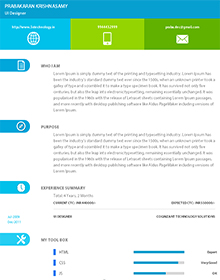
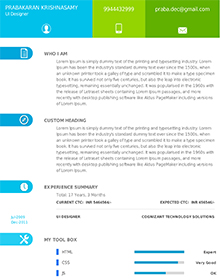
#186

diff --git a/assets/css/sss_resume.css b/assets/css/sss_resume.css
@@ -147,11 +147,11 @@ float: right;}
 	font-size: .9em;	text-decoration: none; color: #232323;
 	
 }
-.rsum_tp_active{padding:11px 0 0px 57px; height: 19px; display:block; background: url(../img/sprites.png) -404px -909px no-repeat; margin: 30px 0 0 0; text-align: left;font-family: segoeuib;color: #e78130; font-size: .9em;}
-.rsum_tp{padding:8px 0 0px 57px; height: 19px; display:block; background: url(../img/sprites.png) -403px -849px no-repeat; margin: 25px 0 0 0; text-align: left;color: #232323; font-size: .9em; text-decoration:none;}
-.rsum_tp1{padding:8px 0 2px 57px; height: 19px; display:block; background: url(../img/sprites.png) -403px -881px no-repeat; margin: 25px 0 0 0; text-align: left;color: #232323; font-size: .9em; text-decoration:none;}
+.rsum_tp_active{padding:11px 0 0px 57px; height: 19px; font-weight:bold; display:block; background: url(../img/sprites.png) -404px -909px no-repeat; margin: 30px 0 0 0; text-align: left;font-family: segoeuib;color: #e78130; font-size: .9em;}
+.rsum_tp{padding:8px 0 0px 57px; height: 19px; font-weight:bold; display:block; background: url(../img/sprites.png) -403px -849px no-repeat; margin: 25px 0 0 0; text-align: left;color: #232323; font-size: .9em; text-decoration:none;}
+.rsum_tp1{padding:8px 0 2px 57px; height: 19px; font-weight:bold; display:block; background: url(../img/sprites.png) -403px -881px no-repeat; margin: 25px 0 0 0; text-align: left;color: #232323; font-size: .9em; text-decoration:none;}
 
-.rsum_tp_rs{padding:8px 0 0px 57px; height: 19px; display:block; background: url(../img/sprites.png) -403px -818px no-repeat; margin: 25px 0 0 0; text-align: left;color: #232323; font-size: .9em; text-decoration:none; cursor:pointer;}
+.rsum_tp_rs{padding:8px 0 0px 57px; height: 19px; font-weight:bold; display:block; background: url(../img/sprites.png) -403px -818px no-repeat; margin: 25px 0 0 0; text-align: left;color: #232323; font-size: .9em; text-decoration:none; cursor:pointer;}
 
 .rns_b{
 	font-family: segoeuib;
@@ -251,7 +251,8 @@ input, select{
 }
 
 .form_sections{ margin-left: 20px; padding-bottom: 50px; }
-
+.star_mant{position:absolute; margin:-2px 0px 0 -13px; color:red;}
+.star_mant2{position:absolute; margin:-2px 0px 0 -9px; color:red;}
 .clickr, .clickr_final{
 	padding: 8px 30px 10px 20px; display: inline-block;
 	cursor: pointer;
@@ -273,14 +274,14 @@ input, select{
 
 .clickr_final{
 	position: absolute;	display: block;
-	bottom: 50px; right: 160px;
+	bottom: 50px; right:58px;
 	background: #e78130 ;
 }
 .clickr_preview {
 display: block;
 position: relative;
 float: right;
-margin: -86px 58px 0 0;
+margin: -86px 225px 0 0;
 padding: 9px 20px;
 background-color: #e78130;
 color: #fff;
@@ -393,9 +394,9 @@ height: 2px!important;
 
 }
 
-.change_arrow_lft{background:transparent url(../img/sprites.png) -298px -648px no-repeat; display:block; padding:59px 15px 22px 37px; width:13px;  float:left; margin: 120px 0px 0 29px;}
+.change_arrow_lft{background:transparent url(../img/sprites.png) -298px -648px no-repeat; display:block; padding:59px 15px 22px 37px; width:13px;  float:left; margin: 120px 0px 0 29px; visibility:hidden;}
 
-.change_arrow_rit{background:transparent url(../img/sprites.png) -360px -648px no-repeat; display:block; padding:59px 15px 22px 50px; width:13px;  float:right; margin: 120px 8px 0 0px;}
+.change_arrow_rit{background:transparent url(../img/sprites.png) -360px -648px no-repeat; display:block; padding:59px 15px 22px 50px; width:13px;  float:right; margin: 120px 8px 0 0px; visibility:hidden;}
 
 .t_list_bg{
 	width: 220px; height: 297px; float: left;

diff --git a/assets/css/sss_header.css b/assets/css/sss_header.css
@@ -20,7 +20,7 @@ table {	border-collapse: collapse;	border-spacing: 0;}
 body{ font-family: 'segoeui', sans-serif;}
 .clearboth{clear:both;}
 .floatRight{float:right;}
-.flaotLeft{flaot:left;}
+.flaotLeft{float:left;}
 hr{display: none;}
 h1{font-size: 2.2em;}
 h2{font-size: 1.8em;}
@@ -57,7 +57,7 @@ h3{font-size: 1.4em;}
 	border: 0; border-top: 1px solid #1c5870;
 }
 .ezcv_logo{	
-	width: 120; height: 120px; display: block; 	
+	width: 120px; height: 120px; display: block; 	
 	margin:20px 20px 0 0; 
 	color:#ffffff;	text-decoration: none;	 text-indent: -999em;
 }
@@ -110,6 +110,6 @@ h3{font-size: 1.4em;}
 
 .custom-tooltip-styling
 {
-	color:#000; padding:15px; border:solid 1px #d2d2d2; background:#fff!important; font-weight:bold; margin:-30px 0 0 0!important;
-	font-size:15px; position:absolute;
+	color:#000; padding:10px!important; border:solid 1px #d2d2d2; background:#fff!important; font-weight:bold; margin:-30px 0 0 0!important;
+	font-size:13px!important; position:absolute; width:270px; text-align:center; line-height:18px;
 }

diff --git a/assets/css/sss_home.css b/assets/css/sss_home.css
@@ -170,16 +170,16 @@ footer p{
 }
 
 /************************** Large desktop **************************/
-@media (min-width: 1200px) { ... }
+/*@media (min-width: 1200px) { ... }*/
  
 /************************** Portrait tablet to landscape and 1024 DESKTOP **************************/
-@media (min-width: 768px) and (max-width: 979px) { ... }
+/*@media (min-width: 768px) and (max-width: 979px) { ... }*/
  
 /************************** Landscape phone to portrait tablet **************************/
-@media (max-width: 767px) { ... }
+/*@media (max-width: 767px) { ... }*/
  
 /************************** Landscape phones and down **************************/
-@media (max-width: 480px) { ... }
+/*@media (max-width: 480px) { ... }*/
 
 
 .slide_top_1 {	background: #93c13d !important;}

diff --git a/assets/css/colorbox.css b/assets/css/colorbox.css
@@ -33,7 +33,7 @@
         .cboxIframe{background:#fff;}
         #cboxError{padding:50px; border:1px solid #ccc;}
         #cboxLoadedContent{margin-bottom:28px;}
-        #cboxTitle{position:absolute; top:4px; left:0; text-align:center; width:100%; color:#000;}
+        #cboxTitle{position:absolute; top:0px; left:0; text-align:center; width:793px; color:#fff; background:#e78130; border-radius:5px 5px 0 0; line-height:22px;}
         #cboxCurrent{position:absolute; bottom:4px; left:58px; color:#949494;}
         #cboxLoadingOverlay{background:url(../img/colorbox/loading_background.png) no-repeat center center;}
         #cboxLoadingGraphic{background:url(../img/colorbox/loading.gif) no-repeat center center;}

diff --git a/assets/css/T/T3.php b/assets/css/T/T3.php
@@ -220,6 +220,7 @@ body p,b,h1,h2,h3,span{font-family:Arial, Helvetica, sans-serif; color:#3f3f3f;}
 .wrapper .right .contact{width:80%; margin:10px 0px 0px 30px; float:left;}
 .wrapper .right .contact h1{width:100%; border-bottom:1px solid #3f3f3f; color:#24b8e9; font-size: 15px; line-height:22px; padding:16px 0 16px 41px; text-transform:uppercase; background:url(<?=$baseurl?>assets/img/Templates/t9_t10_contact.png) no-repeat 0% 50%;}
 .wrapper .right .contact .phone{font-size: 14px; padding:22px 0 10px 38px; background:url(<?=$baseurl?>assets/img/Templates/t9_t10_mobile.jpg) no-repeat 0% 69%;}
+.wrapper .right .contact .mail{display: block; padding:2px 0 0px 38px; font-size: 14px;line-height: 22px; background:url(<?=$baseurl?>assets/img/Templates/t9_t10_mail.jpg) no-repeat 0px 6px;}
 
 .wrapper .right .contact .address{font-size: 14px; padding:10px 0 0px 38px; background:url(<?=$baseurl?>assets/img/Templates/t9_t10_address.jpg) no-repeat 0% 22%; line-height:18px;}
 
@@ -256,13 +257,12 @@ body p,b,h1,h2,h3,span{font-family:Arial, Helvetica, sans-serif; color:#3f3f3f;}
 .wrapper .right .other_details h2{width:100%; border-bottom:1px solid #3f3f3f; color:#24b8e9; font-size: 15px; line-height:22px; padding:17px 0 16px 41px; text-transform:uppercase; background:url(<?=$baseurl?>assets/img/Templates/t9_t10_hw_to_cnt_me.png) no-repeat 2% 64%;}
 
 
-.wrapper .right .other_details .sub .url{display: block;color: #717171;padding: 0 0 5px 31px;font-size: 12px;line-height: 22px; background:url(<?=$baseurl?>assets/img/Templates/url1.png) no-repeat 0% 0%;}
-.wrapper .right .other_details .sub .skype{display: block;color: #717171;padding: 0 0 5px 31px;font-size: 12px;line-height: 22px; background:url(<?=$baseurl?>assets/img/Templates/skype1.png) no-repeat 0% 0%;}
-.wrapper .right .other_details .sub .fb{display: block;color: #717171;padding: 0 0 5px 31px;font-size: 12px;line-height: 22px; background:url(<?=$baseurl?>assets/img/Templates/facebook1.png) no-repeat 0% 0%;}
-.wrapper .right .other_details .sub .lin{display: block;color: #717171;padding: 0 0 5px 31px;font-size: 12px;line-height: 22px; background:url(<?=$baseurl?>assets/img/Templates/linkedin1.png) no-repeat 0% 0%;}
-.wrapper .right .other_details .sub .twit{display: block;color: #717171;padding: 0 0 15px 31px;font-size: 12px;line-height: 22px; background:url(<?=$baseurl?>assets/img/Templates/twitter1.png) no-repeat 0% 0%;}
+.wrapper .right .other_details .sub .url{display: block;color: #717171; padding: 0px 0 0px 31px; font-size: 12px;line-height: 26px; background:url(<?=$baseurl?>assets/img/Templates/url1.png) no-repeat 0px 0px;}
+.wrapper .right .other_details .sub .skype{display: block;color: #717171; padding: 0px 0 0px 31px; font-size: 12px;line-height: 26px; background:url(<?=$baseurl?>assets/img/Templates/skype1.png) no-repeat 0% 0%;}
+.wrapper .right .other_details .sub .fb{display: block;color: #717171; padding: 0px 0 0px 31px; font-size: 12px;line-height: 26px; background:url(<?=$baseurl?>assets/img/Templates/facebook1.png) no-repeat 0% 0%;}
+.wrapper .right .other_details .sub .lin{display: block;color: #717171; padding: 0px 0 0px 31px; font-size: 12px;line-height: 26px; background:url(<?=$baseurl?>assets/img/Templates/linkedin1.png) no-repeat 0% 0%;}
+.wrapper .right .other_details .sub .twit{display: block;color: #717171; padding: 0px 0 0px 31px; font-size: 12px;line-height: 26px; background:url(<?=$baseurl?>assets/img/Templates/twitter1.png) no-repeat 0% 0%;}
 
-.wrapper .right .other_details .sub .mail{display: block;color: #717171;padding:0 0 3px 30px;font-size: 12px;line-height: 22px; margin: 15px 0 0 0; background:url(<?=$baseurl?>assets/img/Templates/t9_t10_mail.jpg) no-repeat 0px 3px;}
 
 .wrapper .right .other_details .sub p b{font-weight:bold;}
 .wrapper .right .other_details .sub .percentage:last-child{border:none;}

diff --git a/application/views/home.php b/application/views/home.php
@@ -1,5 +1,5 @@
-<link rel="stylesheet" type="text/css" href="<?php echo base_url("assets/css/sss_home.css"); ?>" />
-<link rel="stylesheet" type="text/css" href="<?php echo base_url("assets/css/responsiveslides.css"); ?>" />
+<link type="text/css" href="<?php echo base_url("assets/css/sss_home.css"); ?>" rel="stylesheet" />
+<link type="text/css" href="<?php echo base_url("assets/css/responsiveslides.css"); ?>" rel="stylesheet" />
 
 		<hr/>
 		<div class="rslider_container">
@@ -14,7 +14,7 @@
 							<a href="<?=base_url('templates'); ?>">Get Started Here</a>
 						</div>
 						<div class="slide_bottom_1">
-							<img class="slider_img" src="<?php echo base_url("assets/img/slider1.png"); ?>">
+							<img class="slider_img" alt="Choose your resume style" title="Choose your resume style" src="<?php echo base_url("assets/img/slider1.png"); ?>">
 						</div>
 						<div class="slide_bottom_2">
 							<p>Penning down your resume is not easy to do and when its finally complete there is no energy left to make it look good. Its the same drab black and white Word document you end up with. <br/><br/>Here is where we want to make a difference. We believe your resume is the most important document you ever created and hence we have designed a whole range of templates for you to pick from. With a face lift there is a good chance your resume brightens up your prospects to get selected from the pile. </p>
@@ -32,7 +32,7 @@
 							<a href="<?=base_url('templates'); ?>">Get Started Here</a>
 						</div>
 						<div class="slide_bottom_1">
-							<img class="slider_img" src="<?php echo base_url("assets/img/slider2.png"); ?>">
+							<img class="slider_img" alt="Discover yourself" title="Discover yourself" src="<?php echo base_url("assets/img/slider2.png"); ?>">
 						</div>
 						<div class="slide_bottom_2">
 							<p>These are the most crutial pieces of information. A recruiter can keep or reject your resume based on how you project yourself. We understand your need for a good resume with chatchy phrases that build your personality and make an impact.<br/><br/>We have made form filling much easier, you don't have to think up beautiful words any more. We serve them to you as you go along. All you need to do is pick the best matches that suit your personality. Now, that is a step forward to help right! </p>
@@ -52,7 +52,7 @@
 					
 					
 						<div class="slide_bottom_1"> 
-							<img class="slider_img" src="<?php echo base_url("assets/img/slider3.png"); ?>">
+							<img class="slider_img" alt="Build your Image" title="Build your Image" src="<?php echo base_url("assets/img/slider3.png"); ?>">
 						</div>
 						<div class="slide_bottom_2">
 							<p>At the end of the exercise of building your image and putting in all the right words together you want a great looking resume. We give you the choice of changing the template any number of times till you feel comfortable. <br/><br/>At the end of it, we want you to have a great looking resume that best describes you.</p>
@@ -72,7 +72,7 @@
 					
 					
 						<div class="slide_bottom_1">
-							<img class="slider_img" src="<?php echo base_url("assets/img/slider4.png"); ?>">
+							<img class="slider_img" alt="Register with EZCV" title="Register with EZCV" src="<?php echo base_url("assets/img/slider4.png"); ?>">
 						</div>
 						<div class="slide_bottom_2">
 							<p>And of course, any resume you work on is of great importance to us. We want to ensure we preserve all your hard work so that you can edit it the next time you visit our site. <br/><br/>Once you have registered with us, you can stay rest assured that all your hard work and time spent has been saved up to the last detail.</p>

diff --git a/application/views/header.php b/application/views/header.php
@@ -2,12 +2,12 @@
 <html>
 <head>
 <meta charset="UTF-8">
-<link rel="icon" type="image/png" href="<?php echo base_url("assets/img/favicon.png"); ?>">
+<link rel="icon" type="image/png" href="<?php echo base_url("assets/img/favicon.png"); ?>" title="EZCV Favicon">
 <meta name="viewport" content="width=device-width, initial-scale=1, maximum-scale=1">
 <meta name="keywords" content="Create cv online, create resume online,  Resume builder, EZCV">
 <meta name="description" content="Get noticed in a see of Resume">
 <title>EZCV | Get noticed in the sea of resumes</title>
-<link rel="stylesheet" type="text/css" href="<?php echo base_url("assets/css/sss_header.css"); ?>" />
+<link rel="stylesheet" type="text/css" href="<?php echo base_url("assets/css/sss_header.css"); ?>" title="EZCV Header" />
 <link rel="stylesheet" href="http://ajax.googleapis.com/ajax/libs/jqueryui/1.8.17/themes/pepper-grinder/jquery-ui.css" />
 <script src="<?php echo base_url("assets/js/jquery.js"); ?>"></script>
 <script type="text/javascript">
@@ -24,7 +24,7 @@
 		$register='yes';
 	}
 	 ?>
-		<h1><a class="ezcv_logo" href="<?php echo base_url(); ?>"><img src="<?php echo base_url("assets/img/ezcv-logo.png"); ?>"> </a></h1>
+		<h1><a class="ezcv_logo" alt="EZCV" title="EZCV" href="<?php echo base_url(); ?>"><img alt="EZCV" title="EZCV" src="<?php echo base_url("assets/img/ezcv-logo.png"); ?>"> </a></h1>
 		<nav>
 			<a href="<?php echo base_url(); ?>" <? if($page =="" || $page =="home") echo 'class="ezcv_header_current"'; ?> >Home</a>
 			<a href="<?php echo base_url('why'); ?>" <? if($page =="why") echo 'class="ezcv_header_current"'; ?> >Why EZCV</a>
@@ -62,8 +62,7 @@
 					<li><a class="c1" href="mailto:aditya@digitalchakra.in">Mail EZCV</a></li>
 					<li><a class="c2" href="">Twitter EZCV</a></li>
 					<li><a class="c3" href="">Facebook EZCV</a></li>
-					<li><a class="c4 emailtooltip"  title="Address: Shree Park 3rd Floor West Wing
-# 578 Anna Salai Chennai-600 018" href="">Dribble EZCV</a></li>
+					<li><a class="c4 emailtooltip"  title="Address: Shree Park 3rd Floor, West Wing, # 578 Anna Salai, Chennai-600 018" href="">Dribble EZCV</a></li>
 					<li><a class="c5 emailtooltip" title="+9144 2433-0401,  +9144 2433-0402" href="">Phone EZCV</a></li>
 				</ul>
 			</div>

diff --git a/assets/css/T/T2.php b/assets/css/T/T2.php
@@ -16,7 +16,7 @@ blockquote, q {	quotes: none;}
 blockquote:before, blockquote:after,q:before, q:after {	content: '';	content: none;}
 table {	border-collapse: collapse;	border-spacing: 0;}
 
-/*******************************************************font************************************************************************/
+/******************************************************* font ************************************************************************/
 
 
 /*************************************************************  global  ******** background-color:green;********* background-color:pink;**********background-color:orange;***********background-color:yellow;**********************************/
@@ -50,10 +50,10 @@ body h1,h2,h3,h4,{font-weight:normal;}
 
 .wrapper .header{padding:40px 0 0 0;}
   
-.wrapper .header .left .logo{width:189px; height:45px; float:right; background:url(<?=$baseurl?>assets/img/Templates/t10_logo1.jpg) no-repeat 94% 0%; margin:31px 0 0 100px; background-color:#0b9bd0;}
+.wrapper .header .left .logo{width:189px; height:45px; float:right; background:url(<?=$baseurl?>assets/img/Templates/t10_logo1.jpg) no-repeat 94% 0%; margin:31px 0 0 100px; background-color:#0b9bd0; display:none;}
 
-.wrapper .header .right h1{font-size:17px; line-height:28px; padding:28px 0 0 0; font-weight:bold; }
-.wrapper .header .right h2{font-size:15px; line-height:30px; color:#0b9bd0; font-weight:bold;  padding:0 0 20px 0;}
+.wrapper .header .right h1{font-size:17px; line-height:28px; color:#0b9bd0; padding:28px 0 0 0; font-weight:bold; }
+.wrapper .header .right h2{font-size:15px; line-height:30px; color:#626060; font-weight:bold;  padding:0 0 20px 0;}
 
 
 /*************************************************************  objective  ***********************************************************************************************/

diff --git a/application/views/resume.php b/application/views/resume.php
@@ -74,14 +74,15 @@
 			<div class="left_form_title">
 				<h3>About Me</h3>
 				<div class="clearboth"></div>
-				<p> Tell us about yourself in this section. You can enter your name and current location as well as talk about yourself and what you have been doing till date.</p>
+				<p>Tell us about yourself in this section. You can enter your name, current location and other contact details here.</p>
 			</div>
 			
 			<div class="form_sections">
 				<div>
 					<input type="text" name="fname"  id="first_name" placeholder="First name"  value="<? if(isset($user_detail[0]['first_name'])) echo $user_detail[0]['first_name']; ?>" maxlength="30" required/>
-          
+          <span class="star_mant">*</span>
 					<input name="lname" type="text"  id="last_name" placeholder="Last name" value="<? if(isset($user_detail[0]['last_name'])) echo $user_detail[0]['last_name']; ?>" maxlength="30" required/>
+          <span class="star_mant2">*</span>
           <span class="fnme" id="fname_err"></span>
           <span class="lnme" id="lname_err"></span>
 				</div>

diff --git a/assets/css/T/T4.php b/assets/css/T/T4.php
@@ -177,7 +177,7 @@ body p,b,h1,h2,h3,h4,span,div{font-family:Calibri, arial; color:#3f3f3f;}
 
 /*************************************************************skills******************************************************************/
 
-.skill {margin: 10px 0 20px 0;}
+.skill {margin: 15px 0 20px 0;}
 .skill .left_skill{width:27%; float:left;  background:url(<?=$baseurl?>assets/img/Templates/t8_5.jpg) no-repeat 0% 50%;}
 .skill .left_skill p{padding:0 0 0 20px; color:#4aa1d9; font-size: 17px;  line-height:28px;}
 

diff --git a/application/views/preview.php b/application/views/preview.php
@@ -1,6 +1,6 @@
 <style type="text/css">
 	.clickr{
-	width: 109px; height: 34px; line-height:33px;
+	width: 172px; height: 34px; line-height:33px;
 	 display: block; text-align: center;
 	 margin-top: 100px;
 	cursor: pointer; text-decoration: none;
